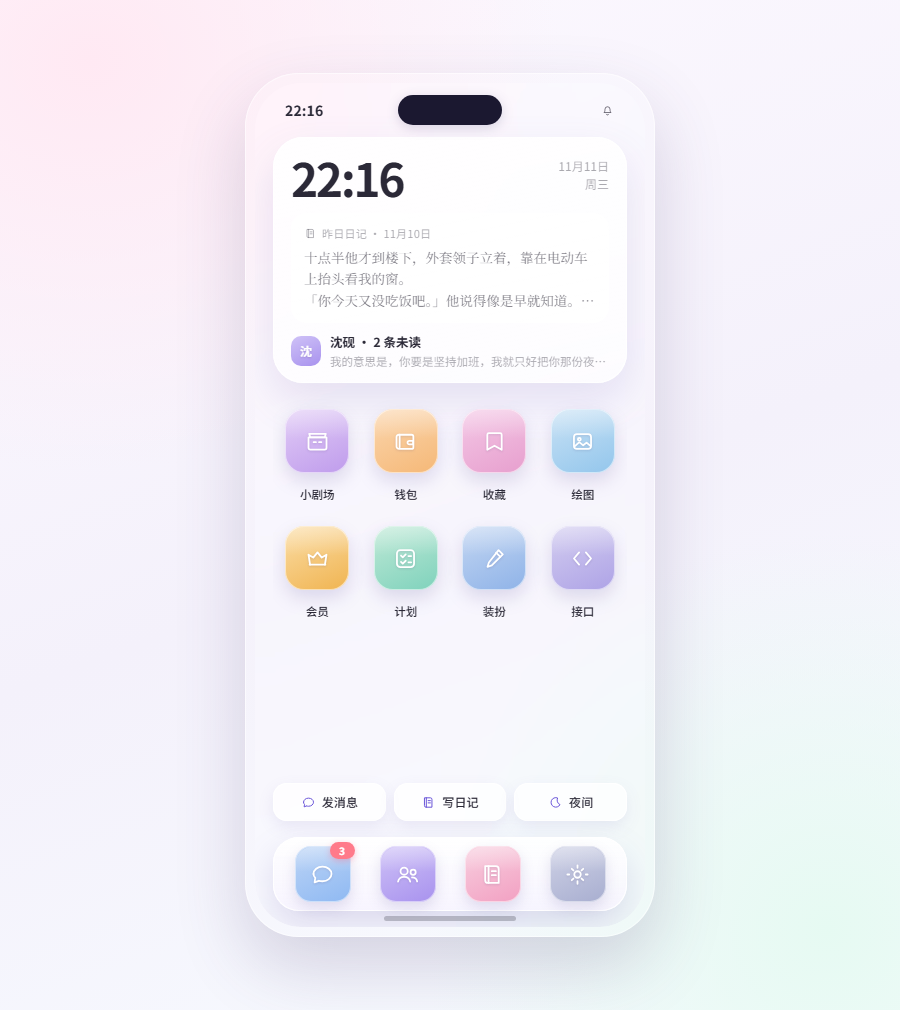
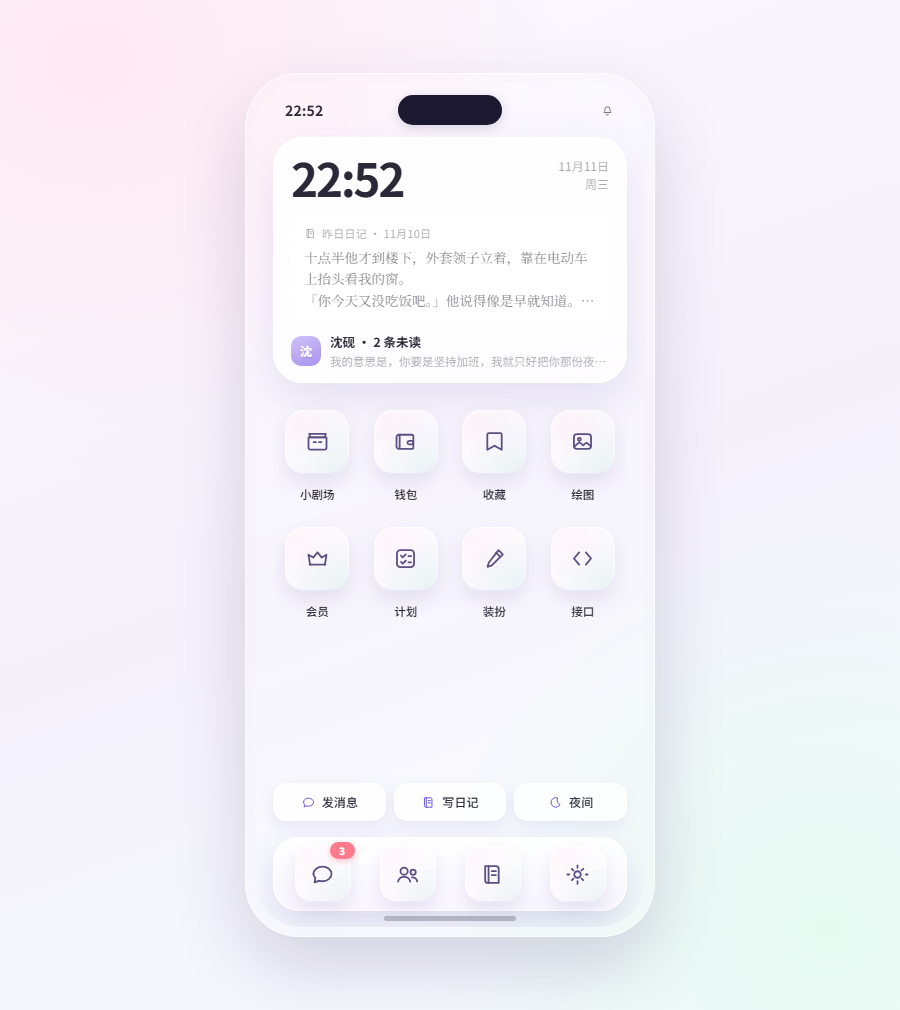
style: 图标统一成毛玻璃磁贴
- 桌面与 Dock 的图标不再各自一套马卡龙渐变，统一半透明玻璃 + backdrop 模糊 + 顶部高光边与内描边
- 日间磁贴透出壁纸的粉与薄荷色晕，夜间磨砂深玻璃；图标线稿统一为深紫墨色
- 装扮页的图标预览同步换同一套；README 补说明

diff --git a/preview.html b/preview.html
@@ -1865,6 +1865,108 @@ body {
   text-overflow: ellipsis;
 }
 .mp-root .mp-api-value.is-empty { color: var(--text-3); }
+/* ===================== 图标统一：毛玻璃磁贴（本段） ===================== */
+.mp-app .mp-tile {
+  background:
+    radial-gradient(130% 115% at 16% 6%, rgba(255, 214, 234, .34), rgba(255, 255, 255, 0) 62%),
+    radial-gradient(135% 120% at 90% 98%, rgba(196, 226, 222, .30), rgba(255, 255, 255, 0) 64%),
+    linear-gradient(155deg, rgba(255, 255, 255, .58), rgba(255, 255, 255, .24) 58%);
+  backdrop-filter: blur(20px) saturate(170%);
+  -webkit-backdrop-filter: blur(20px) saturate(170%);
+  box-shadow:
+    0 9px 20px rgba(118, 106, 168, .16),
+    inset 0 1px 0 rgba(255, 255, 255, .95),
+    inset 0 -1px 0 rgba(150, 138, 205, .16),
+    inset 0 0 0 1px rgba(255, 255, 255, .56);
+}
+
+.mp-app .mp-tile::after {
+  inset: 0;
+  border-radius: inherit;
+  background:
+    linear-gradient(158deg, rgba(255, 255, 255, .52), rgba(255, 255, 255, .05) 42%, rgba(255, 255, 255, 0) 58%);
+}
+
+.mp-app .mp-tile .mp-i {
+  color: #4f4179;
+  filter: none;
+  opacity: .92;
+}
+
+.mp-dock .mp-app .mp-tile {
+  background:
+    radial-gradient(130% 115% at 14% 4%, rgba(255, 214, 234, .30), rgba(255, 255, 255, 0) 60%),
+    radial-gradient(135% 120% at 92% 98%, rgba(196, 226, 222, .26), rgba(255, 255, 255, 0) 62%),
+    linear-gradient(155deg, rgba(255, 255, 255, .66), rgba(255, 255, 255, .34) 58%);
+  box-shadow:
+    0 7px 15px rgba(118, 106, 168, .14),
+    inset 0 1px 0 rgba(255, 255, 255, .96),
+    inset 0 -1px 0 rgba(150, 138, 205, .14),
+    inset 0 0 0 1px rgba(255, 255, 255, .6);
+}
+
+.mp-root[data-mp-theme="night"] .mp-app .mp-tile {
+  background:
+    linear-gradient(155deg, rgba(255, 255, 255, .17), rgba(255, 255, 255, .05) 56%, rgba(150, 132, 235, .18));
+  backdrop-filter: blur(20px) saturate(150%);
+  -webkit-backdrop-filter: blur(20px) saturate(150%);
+  box-shadow:
+    0 9px 22px rgba(0, 0, 0, .36),
+    inset 0 1px 0 rgba(255, 255, 255, .26),
+    inset 0 -1px 0 rgba(120, 100, 200, .18),
+    inset 0 0 0 1px rgba(255, 255, 255, .14);
+}
+
+.mp-root[data-mp-theme="night"] .mp-app .mp-tile::after {
+  background:
+    linear-gradient(158deg, rgba(255, 255, 255, .20), rgba(255, 255, 255, .02) 40%, rgba(255, 255, 255, 0) 56%);
+}
+
+.mp-root[data-mp-theme="night"] .mp-app .mp-tile .mp-i {
+  color: #f1ecff;
+  opacity: .94;
+}
+
+.mp-root[data-mp-theme="night"] .mp-dock .mp-app .mp-tile {
+  background:
+    linear-gradient(155deg, rgba(255, 255, 255, .21), rgba(255, 255, 255, .07) 56%, rgba(150, 132, 235, .2));
+}
+
+/* 装扮页的图标预览：与桌面磁贴同一套毛玻璃 */
+.mp-glass-ico {
+  display: grid;
+  place-items: center;
+  background:
+    radial-gradient(130% 115% at 16% 6%, rgba(255, 214, 234, .34), rgba(255, 255, 255, 0) 62%),
+    radial-gradient(135% 120% at 90% 98%, rgba(196, 226, 222, .30), rgba(255, 255, 255, 0) 64%),
+    linear-gradient(155deg, rgba(255, 255, 255, .58), rgba(255, 255, 255, .24) 58%);
+  backdrop-filter: blur(16px) saturate(160%);
+  -webkit-backdrop-filter: blur(16px) saturate(160%);
+  box-shadow:
+    0 6px 14px rgba(118, 106, 168, .14),
+    inset 0 1px 0 rgba(255, 255, 255, .92),
+    inset 0 0 0 1px rgba(255, 255, 255, .52);
+  color: #4f4179;
+}
+
+.mp-glass-ico .mp-i {
+  width: 20px;
+  height: 20px;
+  opacity: .92;
+}
+
+.mp-root[data-mp-theme="night"] .mp-glass-ico {
+  background:
+    radial-gradient(130% 115% at 16% 6%, rgba(255, 150, 200, .16), rgba(255, 255, 255, 0) 62%),
+    radial-gradient(135% 120% at 90% 98%, rgba(120, 200, 190, .14), rgba(255, 255, 255, 0) 64%),
+    linear-gradient(155deg, rgba(255, 255, 255, .17), rgba(255, 255, 255, .05) 58%);
+  box-shadow:
+    0 6px 16px rgba(0, 0, 0, .34),
+    inset 0 1px 0 rgba(255, 255, 255, .24),
+    inset 0 0 0 1px rgba(255, 255, 255, .14);
+  color: #f1ecff;
+}
+
 </style>
 </head>
 <body>
@@ -2783,7 +2885,7 @@ function createShell(options) {
 
     const iconButtons = desktopApps.map(app => `
       <button class="mp-app" data-act="open-app" data-app="${app.id}" type="button" aria-label="${esc(app.name)}">
-        <span class="mp-tile" style="${tintStyle(app.id)}">${ico(app.icon)}</span>
+        <span class="mp-tile">${ico(app.icon)}</span>
         <span class="mp-app-label">${esc(app.name)}</span>
       </button>`).join('');
 
@@ -2791,7 +2893,7 @@ function createShell(options) {
       const badge = app.id === 'chat' ? unreadTotal(state) : 0;
       return `
       <button class="mp-app" data-act="open-app" data-app="${app.id}" type="button" aria-label="${esc(app.name)}">
-        <span class="mp-tile" style="${tintStyle(app.id)}">${ico(app.icon)}${badge ? `<span class="mp-badge">${badge > 99 ? '99+' : badge}</span>` : ''}</span>
+        <span class="mp-tile">${ico(app.icon)}${badge ? `<span class="mp-badge">${badge > 99 ? '99+' : badge}</span>` : ''}</span>
         <span class="mp-app-label">${esc(app.name)}</span>
       </button>`;
     }).join('');
@@ -4644,7 +4746,7 @@ const dressApp = {
         <div class="mp-group-label" style="margin-top:16px">图标</div>
         <div class="mp-card" style="display:grid;grid-template-columns:repeat(4,1fr);gap:12px;justify-items:center">
           ${['chat', 'contacts', 'diary', 'settings', 'theater', 'wallet', 'bookmark', 'smile'].map(key => `
-            <span style="width:46px;height:46px;border-radius:14px;display:grid;place-items:center;${tintStyle(key)};box-shadow:var(--shadow-s)">${icon(key)}</span>`).join('')}
+            <span class="mp-glass-ico" style="width:46px;height:46px;border-radius:14px">${icon(key)}</span>`).join('')}
         </div>
       </div>`;
   },

diff --git a/meme/meme.css b/meme/meme.css
@@ -1848,3 +1848,104 @@
   text-overflow: ellipsis;
 }
 .mp-root .mp-api-value.is-empty { color: var(--text-3); }
+/* ===================== 图标统一：毛玻璃磁贴（本段） ===================== */
+.mp-app .mp-tile {
+  background:
+    radial-gradient(130% 115% at 16% 6%, rgba(255, 214, 234, .34), rgba(255, 255, 255, 0) 62%),
+    radial-gradient(135% 120% at 90% 98%, rgba(196, 226, 222, .30), rgba(255, 255, 255, 0) 64%),
+    linear-gradient(155deg, rgba(255, 255, 255, .58), rgba(255, 255, 255, .24) 58%);
+  backdrop-filter: blur(20px) saturate(170%);
+  -webkit-backdrop-filter: blur(20px) saturate(170%);
+  box-shadow:
+    0 9px 20px rgba(118, 106, 168, .16),
+    inset 0 1px 0 rgba(255, 255, 255, .95),
+    inset 0 -1px 0 rgba(150, 138, 205, .16),
+    inset 0 0 0 1px rgba(255, 255, 255, .56);
+}
+
+.mp-app .mp-tile::after {
+  inset: 0;
+  border-radius: inherit;
+  background:
+    linear-gradient(158deg, rgba(255, 255, 255, .52), rgba(255, 255, 255, .05) 42%, rgba(255, 255, 255, 0) 58%);
+}
+
+.mp-app .mp-tile .mp-i {
+  color: #4f4179;
+  filter: none;
+  opacity: .92;
+}
+
+.mp-dock .mp-app .mp-tile {
+  background:
+    radial-gradient(130% 115% at 14% 4%, rgba(255, 214, 234, .30), rgba(255, 255, 255, 0) 60%),
+    radial-gradient(135% 120% at 92% 98%, rgba(196, 226, 222, .26), rgba(255, 255, 255, 0) 62%),
+    linear-gradient(155deg, rgba(255, 255, 255, .66), rgba(255, 255, 255, .34) 58%);
+  box-shadow:
+    0 7px 15px rgba(118, 106, 168, .14),
+    inset 0 1px 0 rgba(255, 255, 255, .96),
+    inset 0 -1px 0 rgba(150, 138, 205, .14),
+    inset 0 0 0 1px rgba(255, 255, 255, .6);
+}
+
+.mp-root[data-mp-theme="night"] .mp-app .mp-tile {
+  background:
+    linear-gradient(155deg, rgba(255, 255, 255, .17), rgba(255, 255, 255, .05) 56%, rgba(150, 132, 235, .18));
+  backdrop-filter: blur(20px) saturate(150%);
+  -webkit-backdrop-filter: blur(20px) saturate(150%);
+  box-shadow:
+    0 9px 22px rgba(0, 0, 0, .36),
+    inset 0 1px 0 rgba(255, 255, 255, .26),
+    inset 0 -1px 0 rgba(120, 100, 200, .18),
+    inset 0 0 0 1px rgba(255, 255, 255, .14);
+}
+
+.mp-root[data-mp-theme="night"] .mp-app .mp-tile::after {
+  background:
+    linear-gradient(158deg, rgba(255, 255, 255, .20), rgba(255, 255, 255, .02) 40%, rgba(255, 255, 255, 0) 56%);
+}
+
+.mp-root[data-mp-theme="night"] .mp-app .mp-tile .mp-i {
+  color: #f1ecff;
+  opacity: .94;
+}
+
+.mp-root[data-mp-theme="night"] .mp-dock .mp-app .mp-tile {
+  background:
+    linear-gradient(155deg, rgba(255, 255, 255, .21), rgba(255, 255, 255, .07) 56%, rgba(150, 132, 235, .2));
+}
+
+/* 装扮页的图标预览：与桌面磁贴同一套毛玻璃 */
+.mp-glass-ico {
+  display: grid;
+  place-items: center;
+  background:
+    radial-gradient(130% 115% at 16% 6%, rgba(255, 214, 234, .34), rgba(255, 255, 255, 0) 62%),
+    radial-gradient(135% 120% at 90% 98%, rgba(196, 226, 222, .30), rgba(255, 255, 255, 0) 64%),
+    linear-gradient(155deg, rgba(255, 255, 255, .58), rgba(255, 255, 255, .24) 58%);
+  backdrop-filter: blur(16px) saturate(160%);
+  -webkit-backdrop-filter: blur(16px) saturate(160%);
+  box-shadow:
+    0 6px 14px rgba(118, 106, 168, .14),
+    inset 0 1px 0 rgba(255, 255, 255, .92),
+    inset 0 0 0 1px rgba(255, 255, 255, .52);
+  color: #4f4179;
+}
+
+.mp-glass-ico .mp-i {
+  width: 20px;
+  height: 20px;
+  opacity: .92;
+}
+
+.mp-root[data-mp-theme="night"] .mp-glass-ico {
+  background:
+    radial-gradient(130% 115% at 16% 6%, rgba(255, 150, 200, .16), rgba(255, 255, 255, 0) 62%),
+    radial-gradient(135% 120% at 90% 98%, rgba(120, 200, 190, .14), rgba(255, 255, 255, 0) 64%),
+    linear-gradient(155deg, rgba(255, 255, 255, .17), rgba(255, 255, 255, .05) 58%);
+  box-shadow:
+    0 6px 16px rgba(0, 0, 0, .34),
+    inset 0 1px 0 rgba(255, 255, 255, .24),
+    inset 0 0 0 1px rgba(255, 255, 255, .14);
+  color: #f1ecff;
+}

diff --git a/meme/shell.js b/meme/shell.js
@@ -100,7 +100,7 @@ export function createShell(options) {
 
     const iconButtons = desktopApps.map(app => `
       <button class="mp-app" data-act="open-app" data-app="${app.id}" type="button" aria-label="${esc(app.name)}">
-        <span class="mp-tile" style="${tintStyle(app.id)}">${ico(app.icon)}</span>
+        <span class="mp-tile">${ico(app.icon)}</span>
         <span class="mp-app-label">${esc(app.name)}</span>
       </button>`).join('');
 
@@ -108,7 +108,7 @@ export function createShell(options) {
       const badge = app.id === 'chat' ? unreadTotal(state) : 0;
       return `
       <button class="mp-app" data-act="open-app" data-app="${app.id}" type="button" aria-label="${esc(app.name)}">
-        <span class="mp-tile" style="${tintStyle(app.id)}">${ico(app.icon)}${badge ? `<span class="mp-badge">${badge > 99 ? '99+' : badge}</span>` : ''}</span>
+        <span class="mp-tile">${ico(app.icon)}${badge ? `<span class="mp-badge">${badge > 99 ? '99+' : badge}</span>` : ''}</span>
         <span class="mp-app-label">${esc(app.name)}</span>
       </button>`;
     }).join('');

diff --git a/meme/apps/more.js b/meme/apps/more.js
@@ -368,7 +368,7 @@ export const dressApp = {
         <div class="mp-group-label" style="margin-top:16px">图标</div>
         <div class="mp-card" style="display:grid;grid-template-columns:repeat(4,1fr);gap:12px;justify-items:center">
           ${['chat', 'contacts', 'diary', 'settings', 'theater', 'wallet', 'bookmark', 'smile'].map(key => `
-            <span style="width:46px;height:46px;border-radius:14px;display:grid;place-items:center;${tintStyle(key)};box-shadow:var(--shadow-s)">${icon(key)}</span>`).join('')}
+            <span class="mp-glass-ico" style="width:46px;height:46px;border-radius:14px">${icon(key)}</span>`).join('')}
         </div>
       </div>`;
   },

diff --git a/README.md b/README.md
@@ -37,6 +37,7 @@ meme-phone/
 
 - 背景三选一：透明（默认，不铺底色，直接透出酒馆自己的界面）/ 晨光粉彩 / 夜色。在「设置 → 外观与主题 → 背景」里换。
 - 返回：每个页面左上角都有「‹ 返回」，回上一页；页面栈到底了就往桌面退。没画返回键的界面由外壳统一补一条，不会再出现「进去了回不去」。
+- 图标：桌面与 Dock 的磁贴统一成毛玻璃——半透明渐变 + 背景模糊 + 顶部一圈高光边，日间透着壁纸的粉与薄荷，夜间是磨砂深玻璃；装扮页的图标预览同一套。
 
 ## 看界面
 
